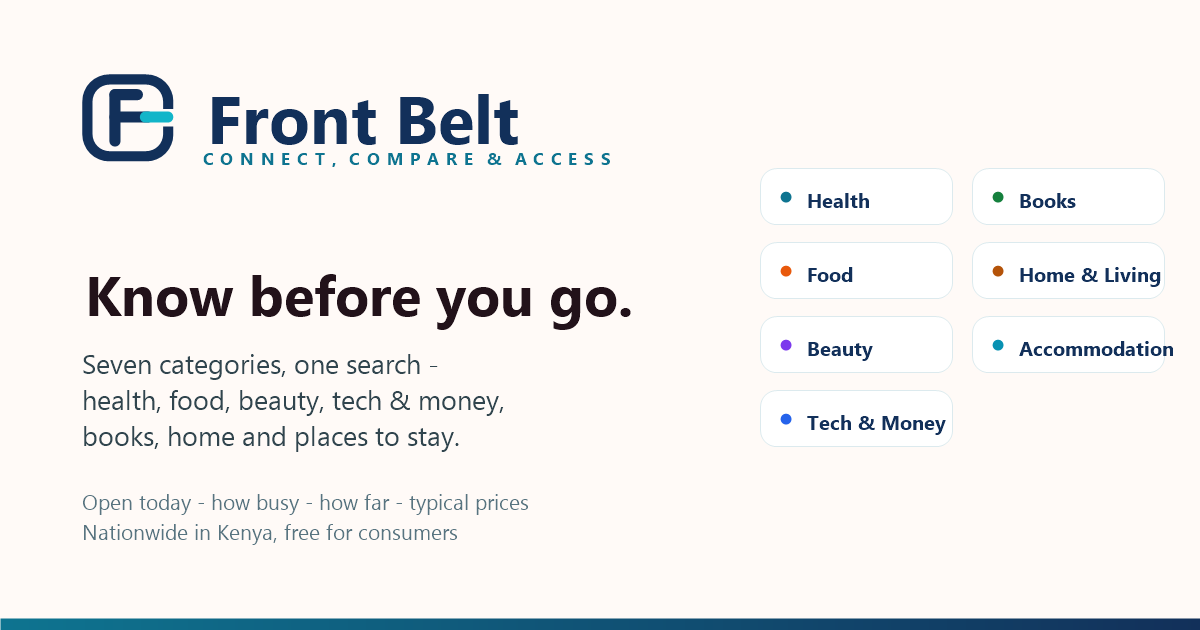
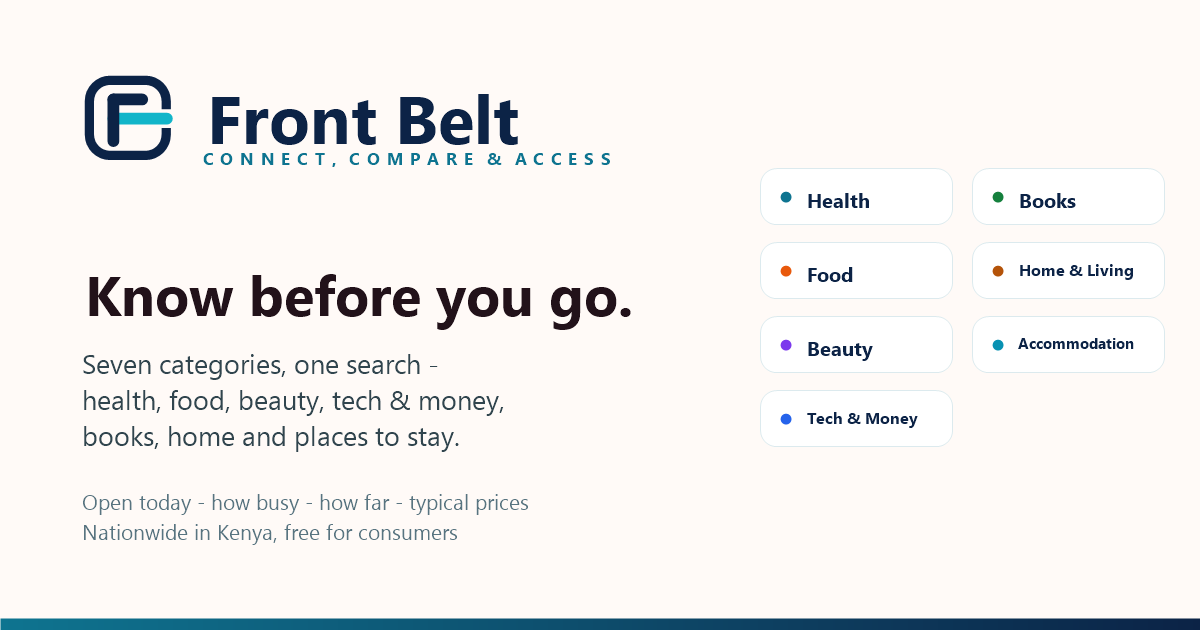
Make the buckle-F read as an F and show it on navy, cream and dark alike.
The frame's corner path was closing across the middle, which cut a diagonal that turned the letter into a G; the mark now draws as two open runs and takes its ink from the surface, so it is navy on cream and white on the footer, hero panel and dark mode, with the sky-blue prong unchanged. Marketing copy no longer names a competing directory or map service.

🤖 Generated with Codebuff

diff --git a/index.html b/index.html
@@ -57,6 +57,16 @@
   <symbol id="i-logout" viewBox="0 0 24 24"><path d="M14 5h4.5A1.5 1.5 0 0 1 20 6.5v11a1.5 1.5 0 0 1-1.5 1.5H14"/><path d="M10 8.5 6.5 12l3.5 3.5"/><path d="M6.8 12H15"/></symbol>
   <symbol id="i-clock" viewBox="0 0 24 24"><circle cx="12" cy="12" r="8.6"/><path d="M12 7.5V12l3.2 2"/></symbol>
   <symbol id="i-bell" viewBox="0 0 24 24"><path d="M6 16.5V11a6 6 0 0 1 12 0v5.5l1.6 2.2H4.4L6 16.5z"/><path d="M9.8 21.4a2.4 2.4 0 0 0 4.4 0"/></symbol>
+  <!-- The mark: a belt buckle, an F, and the sky-blue prong that buckles it.
+       Frame and F take currentColor, so the mark is navy on light surfaces and
+       white on navy or dark ones, while the prong stays sky blue on both. -->
+  <symbol id="i-logo" viewBox="0 0 64 64">
+    <path d="M21 8.5H43Q56 8.5 56 21.5V26.6M56 38.4V42.5Q56 55.5 43 55.5H21Q8 55.5 8 42.5V21.5Q8 8.5 21 8.5"
+          fill="none" stroke="currentColor" stroke-width="5.8" stroke-linecap="butt" stroke-linejoin="round"/>
+    <path d="M23 32.5H56.4" fill="none" stroke="var(--logo-accent,#12B5C9)" stroke-width="7.4" stroke-linecap="round"/>
+    <path d="M23 20.5V46.5M23 20.5H41"
+          fill="none" stroke="currentColor" stroke-width="7.4" stroke-linecap="round" stroke-linejoin="round"/>
+  </symbol>
   <symbol id="i-phone" viewBox="0 0 24 24"><path d="M6.4 3.6h3l1.5 4-2 1.6a11.4 11.4 0 0 0 5.9 5.9l1.6-2 4 1.5v3a2 2 0 0 1-2.2 2A16.6 16.6 0 0 1 4.4 5.8a2 2 0 0 1 2-2.2z"/></symbol>
   <symbol id="i-crosshair" viewBox="0 0 24 24"><circle cx="12" cy="12" r="7.4"/><path d="M12 2.5v3.6M12 17.9v3.6M2.5 12h3.6M17.9 12h3.6"/><circle cx="12" cy="12" r="1.6"/></symbol>
   <symbol id="i-arrow" viewBox="0 0 24 24"><path d="M5 12h13"/><path d="m13 7 5 5-5 5"/></symbol>
@@ -98,7 +108,7 @@
 <header class="hdr">
   <div class="hdr-in">
     <a class="brand" href="#/home" aria-label="Front Belt home">
-      <img src="assets/logo.svg" width="36" height="36" alt="">
+      <svg class="logo-mark" aria-hidden="true"><use href="#i-logo"/></svg>
       <span>Front <span class="grad-text">Belt</span></span>
     </a>
 
@@ -152,7 +162,7 @@
 
           <div class="hero2-art" aria-hidden="true">
             <span class="art-ring"></span>
-            <img class="art-mark" src="assets/logo.svg" alt="">
+            <svg class="art-mark" aria-hidden="true"><use href="#i-logo"/></svg>
             <div class="art-card art-c1">
               <span class="ac-type">Pharmacy · Kilimani</span>
               <strong>Sample Health Point</strong>
@@ -255,7 +265,7 @@
       <section class="home-block">
         <div class="split">
           <div class="split-copy">
-            <h2>Google tells you what exists.<br><span class="grad-text">Front Belt tells you which one to pick.</span></h2>
+            <h2>A directory tells you what exists.<br><span class="grad-text">Front Belt tells you which one to pick.</span></h2>
             <p class="lead">Search engines and social feeds are built to show you ads and posts. Front Belt does one job: telling you which provider to go to right now, anywhere in Kenya.</p>
             <ul class="ticks">
               <li><strong>Maintained, not scraped.</strong> Partners keep their own listing current, and every listing shows the date it was last confirmed.</li>
@@ -590,7 +600,7 @@
       </div>
 
       <div class="aboutband">
-        <img src="assets/logo.svg" width="96" height="96" alt="The Front Belt mark">
+        <svg class="logo-mark logo-mark-lg" role="img" aria-label="The Front Belt mark"><use href="#i-logo"/></svg>
         <div>
           <p class="slogan">Connect, Compare &amp; Access</p>
           <p class="muted small">An F inside a buckle frame, with the middle bar as the prong pushing through. Monogram and metaphor in one: <strong>F</strong> for Front, the frame is the buckle, and the prong is the piece that holds a belt closed &mdash; the same idea as the name.</p>
@@ -651,7 +661,7 @@
         <div class="hstep" style="--cc:#B45309">
           <span class="hstep-ic"><svg class="ic"><use href="#i-globe"/></svg></span>
           <h3>Open map, open data</h3>
-          <p>The map is OpenStreetMap, not Google — so there is no map bill and no licence to lose. Our team also finds missing businesses in the open map data, then phones them before anything goes live.</p>
+          <p>The map is built on OpenStreetMap, an open dataset we do not rent from anyone — so there is no map bill and no licence to lose. Our team also finds missing businesses in the open map data, then phones them before anything goes live.</p>
         </div>
         <div class="hstep" style="--cc:#15803D">
           <span class="hstep-ic"><svg class="ic"><use href="#i-shield"/></svg></span>
@@ -987,7 +997,7 @@
   <div class="wrap ftr-top">
     <div class="ftr-brand">
       <a class="brand" href="#/home" aria-label="Front Belt home">
-        <img src="assets/logo.svg" width="40" height="40" alt="">
+        <svg class="logo-mark logo-mark-ftr" aria-hidden="true"><use href="#i-logo"/></svg>
         <span>Front <span class="grad-text">Belt</span></span>
       </a>
       <p>Connect, Compare &amp; Access — a real-time service intelligence platform for Kenya: seven categories, kept current by the businesses themselves.</p>

diff --git a/assets/app.js b/assets/app.js
@@ -439,7 +439,7 @@
 
   /* ---------------- place detail: the “Start” sheet ----------------
      Tap any listing and it opens here with the map, the facts, and a
-     Start button that hands over to Google Maps for turn-by-turn. */
+     Start button that hands over to the phone's own map app for turn-by-turn. */
   function openPlace(id) {
     var c = all.filter(function (x) { return x.id === id; })[0];
     if (!c && samplesOn) c = fallbackRows().filter(function (x) { return x.id === id; })[0];
@@ -906,7 +906,7 @@
       '</article>';
   }
 
-  /* Google Maps opens with the destination pinned and, when the visitor
+  /* The directions handoff opens with the destination pinned and, when the visitor
      shared a location, their position as the origin — the app finds the
      place, Maps does the turn-by-turn and the “Start” button drives it. */
   function dirURL(c, mode) {
@@ -1360,7 +1360,7 @@
       '<label>Longitude<input class="field" id="pf-lng" type="number" step="any" value="' + esc(c.lng != null ? c.lng : '') + '" placeholder="36.7836" required></label>' +
       '<label>&nbsp;<button class="btn btn-ghost btn-sm" type="button" id="pf-capture"><svg class="ic"><use href="#i-crosshair"/></svg> Use my current location</button></label>' +
       '</div>' +
-      '<p class="hint">Stand at the entrance and tap the button: your phone gives the coordinates, so people nearby find you. You can also paste them from Google Maps (right-click the spot → copy coordinates).</p>' +
+      '<p class="hint">Stand at the entrance and tap the button: your phone gives the coordinates, so people nearby find you. You can also copy them from any map app (right-click or long-press the spot).</p>' +
       svcBlock +
       '<label>Typical prices<input class="field" id="pf-pricing" value="' + esc(c.pricing || '') + '" placeholder="e.g. Consultation KES 1,000 · Braids from KES 1,500"></label>' +
       '<p class="hint">This is the cost people compare you on, so write it the way you would say it at the door — &ldquo;from KES 500&rdquo;, &ldquo;KES 1,000&ndash;1,500&rdquo; or &ldquo;free&rdquo;. It appears on your listing and your share card. Change it any time.</p>' +
@@ -2277,7 +2277,7 @@
     box.setAttribute('data-painted', '1');
     box.innerHTML = '<div class="prov-card stack importcard">' +
       '<h3><svg class="ic"><use href="#i-globe"/></svg> Open map data — OpenStreetMap</h3>' +
-      '<p class="hint">Front Belt does not rent its map from Google. The tiles are OpenStreetMap, and this tool reads the same open database (Overpass API) to find businesses near an area that are <em>not</em> on Front Belt yet. Everything it finds arrives as a draft for a reviewer to confirm by phone — nothing is published automatically. Data &copy; OpenStreetMap contributors, ODbL.</p>' +
+      '<p class="hint">Front Belt does not rent its map from a commercial provider. The tiles are OpenStreetMap, and this tool reads the same open database (Overpass API) to find businesses near an area that are <em>not</em> on Front Belt yet. Everything it finds arrives as a draft for a reviewer to confirm by phone — nothing is published automatically. Data &copy; OpenStreetMap contributors, ODbL.</p>' +
       '<div class="grid3">' +
       '<label>Category<select class="field" id="imp-cat">' + CATS.map(function (k) {
         return '<option value="' + esc(k.id) + '">' + esc(k.label) + '</option>';

diff --git a/assets/styles.css b/assets/styles.css
@@ -9,6 +9,7 @@
   --bg:#FFFAF7; --bg-2:#F1F8FA; --surface:#FFFFFF; --surface-2:#F3F9FA;
   --fg:#22121A; --fg-2:#31454E; --muted:#587480; --line:#DCEAEE; --line-2:#C3DBE2;
   --pink:#0E7490; --pink-deep:#0A5B72; --orange:#2D9CDB; --yellow:#BFE3F0; --soft:#E4F2F6;
+  --logo-ink:#0C2346;
   --ok:#0B7A46; --ok-soft:#DCF6E8; --warn:#A5560B; --warn-soft:#FFEFD2; --off:#5F7A84;
   /* Both ends of the gradient carry white text at 5:1 or better. */
   --grad:linear-gradient(115deg,#0E7490,#1D6FA8);
@@ -25,7 +26,7 @@
 @media (prefers-color-scheme:dark){:root:not([data-theme="light"]){
   --bg:#0C1418; --bg-2:#111C21; --surface:#16232A; --surface-2:#1C2C34;
   --fg:#ECF5F7; --fg-2:#D5E6EA; --muted:#9FB6C0; --line:#273B44; --line-2:#33505B;
-  --pink:#5AC4DC; --pink-deep:#8AD9EC; --soft:#12262D;
+  --pink:#5AC4DC; --pink-deep:#8AD9EC; --soft:#12262D; --logo-ink:#FFFFFF;
   --ok:#57E39B; --ok-soft:#12321F; --warn:#F5B35A; --warn-soft:#3B2A15; --off:#A3BCC5;
   --grad:linear-gradient(115deg,#2A9BB4,#4FA8E8);
   --on-brand:#06222B;
@@ -35,7 +36,7 @@
 :root[data-theme="dark"]{
   --bg:#0C1418; --bg-2:#111C21; --surface:#16232A; --surface-2:#1C2C34;
   --fg:#ECF5F7; --fg-2:#D5E6EA; --muted:#9FB6C0; --line:#273B44; --line-2:#33505B;
-  --pink:#5AC4DC; --pink-deep:#8AD9EC; --soft:#12262D;
+  --pink:#5AC4DC; --pink-deep:#8AD9EC; --soft:#12262D; --logo-ink:#FFFFFF;
   --ok:#57E39B; --ok-soft:#12321F; --warn:#F5B35A; --warn-soft:#3B2A15; --off:#A3BCC5;
   --grad:linear-gradient(115deg,#2A9BB4,#4FA8E8);
   --on-brand:#06222B;
@@ -153,6 +154,14 @@ label{display:flex;flex-direction:column;gap:.35rem;font-size:.86rem;font-weight
 .hdr-in{max-width:1240px;margin:0 auto;padding:.6rem 20px;display:flex;align-items:center;gap:1rem}
 .brand{display:flex;align-items:center;gap:.55rem;font-family:var(--display);font-weight:800;font-size:1.1rem;letter-spacing:-.03em;text-decoration:none;color:var(--fg);flex:none}
 .brand svg,.brand img{display:block}
+
+/* ---------- the mark: frame and F follow the surface they sit on ----------
+   Navy on cream, white on navy or dark, so it never disappears into a
+   footer, a hero panel or dark mode. The prong stays sky blue either way. */
+.logo-mark{width:36px;height:36px;flex:none;display:block;color:var(--logo-ink,#0C2346)}
+.logo-mark-lg{width:96px;height:96px}
+.logo-mark-ftr{width:40px;height:40px;color:#fff}
+.art-mark{color:#fff}
 .mainnav{display:flex;align-items:center;gap:.15rem;margin-left:auto}
 .mainnav a{
   display:inline-flex;align-items:center;gap:.42rem;padding:.5rem .7rem;border-radius:999px;
